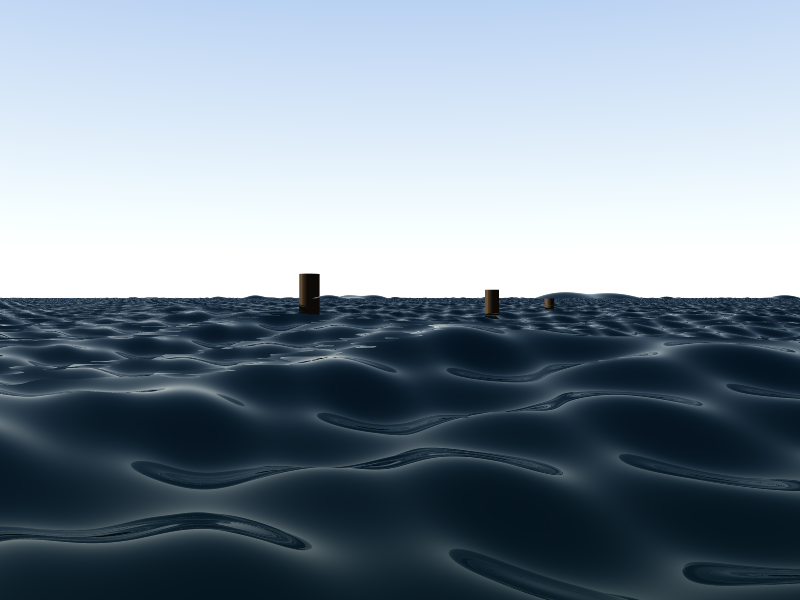
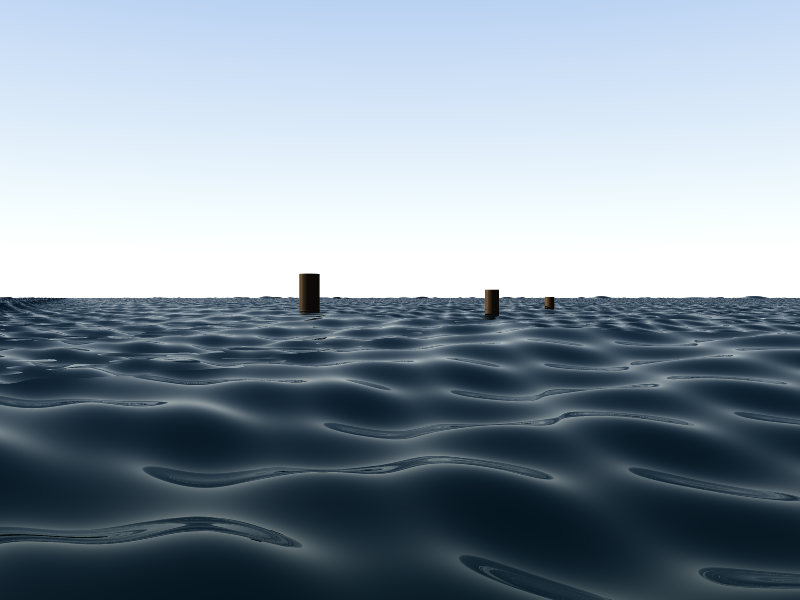
Lean the crests, which turns out to need no new machinery
A real swell is trochoidal: the water at a crest is travelling, so it bunches
there and the face ahead is steeper than the face behind.  This library said
that could not be had -- a height written as `y - f(x, z)` puts every point
directly above where it started, so nothing can lean -- and named it as the one
thing genuinely missing.

That was true of the *form* and not of the surface.  An implicit surface need not
be a graph.  Shear the field's own horizontal argument by its height,
`f(x - lean * y, z)`, and the crests lean.  It is the same marched isosurface as
before; no engine change of any kind.

Verified by solving the implicit equation directly rather than by looking, which
matters because looking gave the wrong answer.  On a single train of crest 1.6
and wavelength 20 the crest height stays at 1.6000 exactly while the two faces
diverge, the ratio of back slope to front going 1.00, 0.68, 0.43 as the shear
rises.  Height held, asymmetry gained: that is a trochoid's signature.

**The renders looked flatter and I nearly believed them.**  Sheared seas read as
smoother, and the first conclusion drawn was that the shear was damping the wave.
The arithmetic says the crest never moved.  What happens is that the back faces
get some two and a half times gentler, and from a camera down at the surface --
where a seascape belongs -- the back faces are most of what is visible.  A real
asymmetry presents as apparent flattening.
[…]

diff --git a/docs/libraries.md b/docs/libraries.md
@@ -419,8 +419,8 @@ mostly its material, so shipping the surface with one would be shipping the half
 This is the same bargain [the skies](#daylight) strike: take both halves or the picture disagrees with
 itself.
 
-The states run `glassy`, `calm`, `breezy`, `choppy`, `rough`.  Each sets three things — how tall the
-swell stands, how far apart the crests run, and how sharply they peak.  **The crests get longer as
+The states run `glassy`, `calm`, `breezy`, `choppy`, `rough`.  Each sets four things — how tall the
+swell stands, how far apart the crests run, how sharply they peak, and how far they lean.  **The crests get longer as
 well as taller**, which is what makes a rough sea read as *large*: waves that grow taller without
 growing longer look like a scale model of themselves.
 
@@ -460,10 +460,24 @@ troughs, which at `rough` looked like smooth leaf-shaped patches and read as a f
 Each swell term is now about two thirds sharpened and one third plain, which keeps the crests drawn up
 and gives the troughs their curve back.
 
-**What is still missing, and it is a real thing.**  A true trochoid displaces the surface *sideways*
-as well as up, leaning each crest over in the direction it travels.  A height written as `y - f(x, z)`
-cannot lean anything — every point stays directly above where it started — so what these waves lack is
-the forward tilt of a big breaking sea.  Below `rough` there is little in it.
+**The crests lean, and getting there needed no new machinery.**  A true trochoid displaces the
+surface *sideways* as well as up, so each crest tilts in the direction it travels: steep in front,
+broad behind.  A height written as `y - f(x, z)` looks unable to do that, since every point is
+directly above where it started — but an implicit surface need not be a graph.  Shear the field's own
+horizontal argument by its height, `f(x - lean·y, z)`, and it leans.  It is the same marched
+isosurface as before.
+
+Measured on a single train of crest 1.6 and wavelength 20, by solving the implicit equation directly:
+the crest height stays at **1.6000 exactly** while the two faces diverge, the ratio of back slope to
+front going 1.00, 0.68, 0.43 as the shear rises.  That is a trochoid's signature — asymmetric, and no
+shorter for it.  Each state carries its own lean, given as a fraction of a wavelength so it means the
+same thing at every scale.  It costs about 1.6× to march.
+
+**What a lean is not.**  A wave that actually *breaks* — a crest folding over into a tube — is not
+this.  Push the shear past about a third of a wavelength and the surface stops leaning and starts
+folding into overlapping sheets, which is a mess rather than a breaker.  That wants a different
+surface: a Gerstner wave proper, whose parameterisation inverts by Newton in four to six steps, giving
+an implicit surface with an exact silhouette and no tessellation.  Worked out, not built.
 
 ### Where Libraries Live
 
